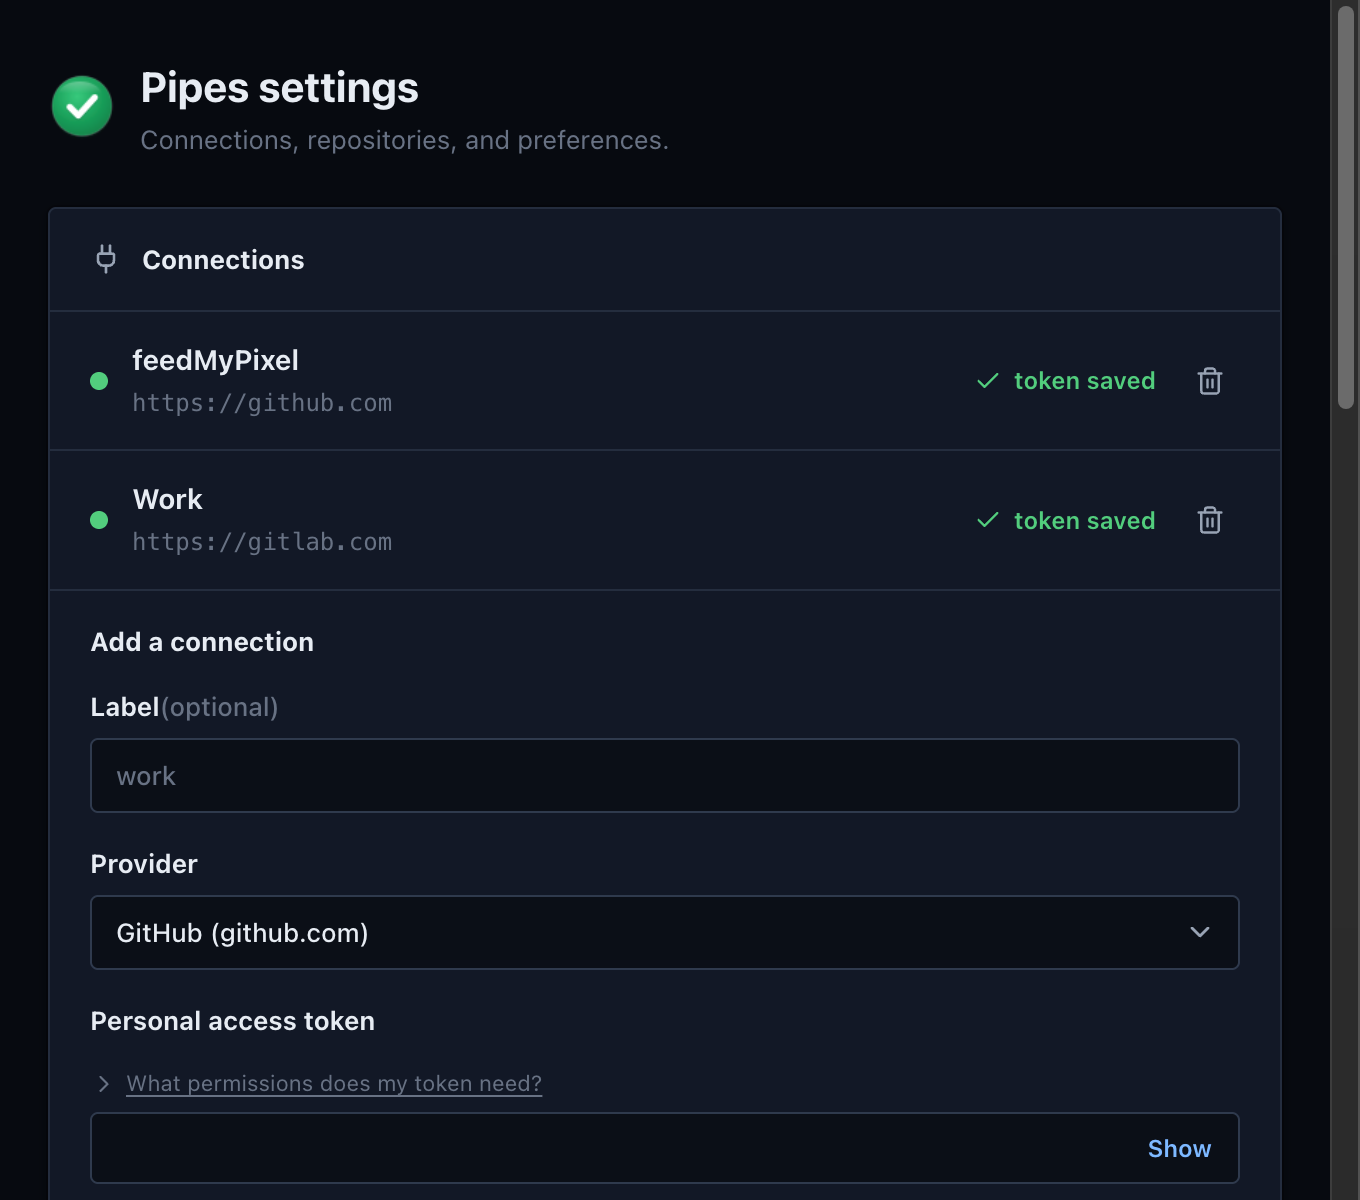
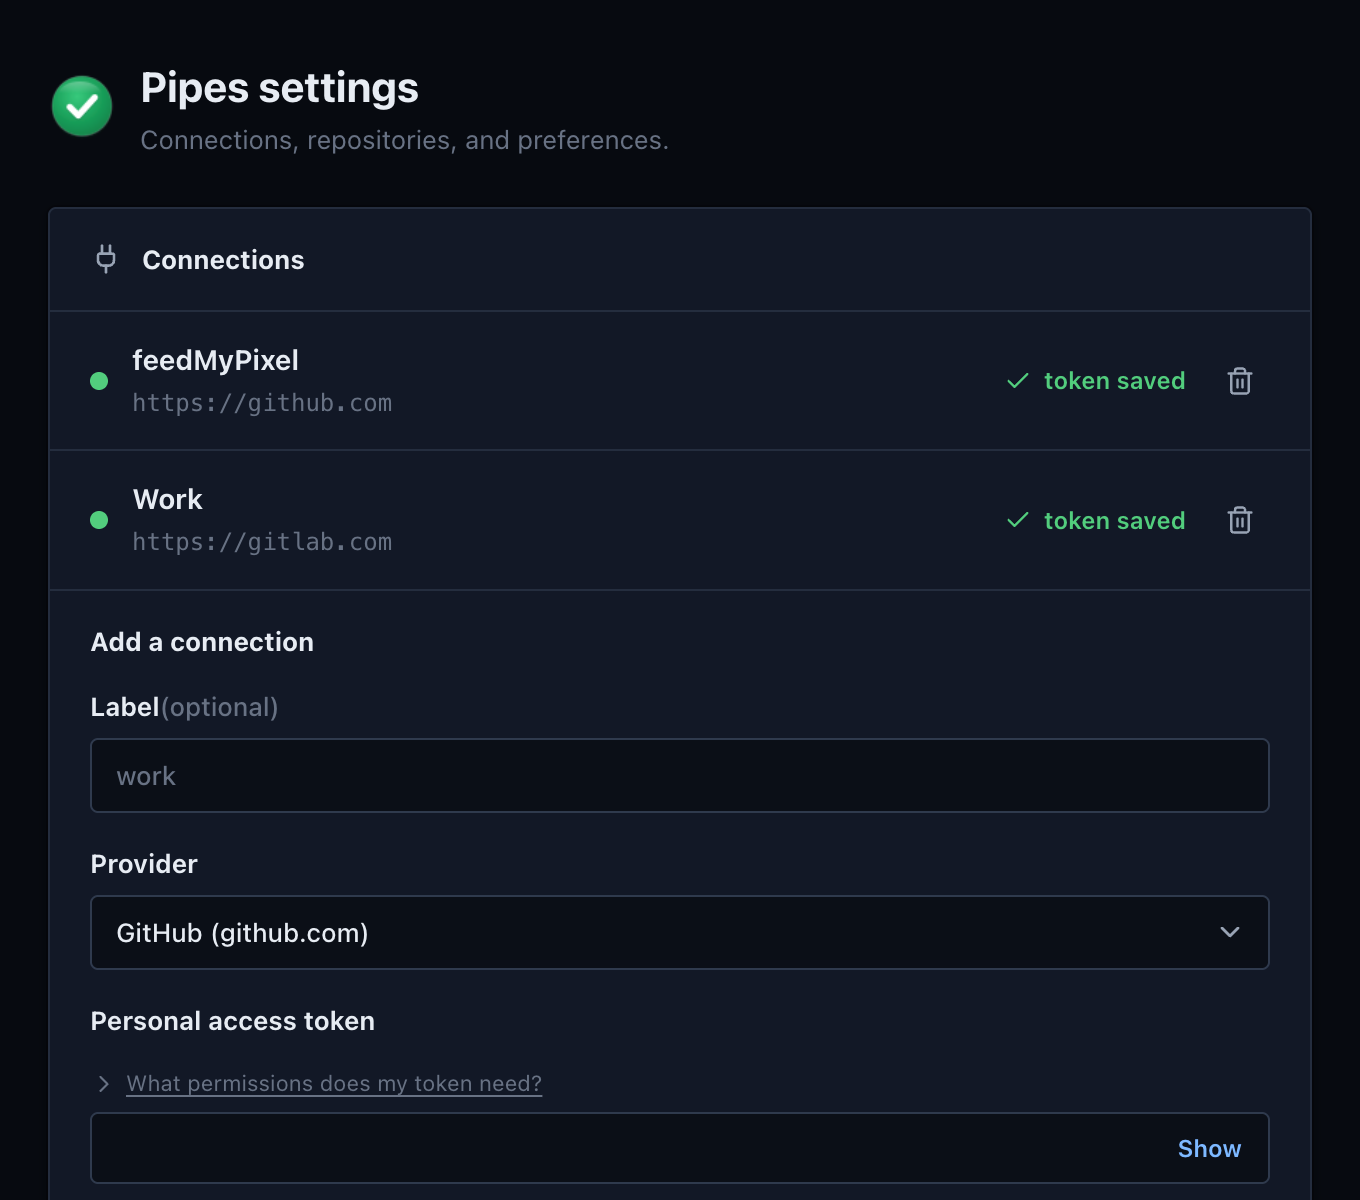
Use the scrollbar-free Pipes dark captures
The dark popup, side panel and options shots came from the design
bundle, captured before pipes 12db8fa hid the scrollbars. The script now
copies all eight shots from design/pipes-captures, pinned from pipes
store-screenshots/auto at 8af3f8e.

Claude-Session: https://claude.ai/code/session_01FSYyyQJwXdNeXTCTAAtt8m

diff --git a/scripts/resize-screens.py b/scripts/resize-screens.py
@@ -13,7 +13,7 @@ from PIL import Image
 
 RENDER_DIRECTORY = Path('design/status-v7/mocks-pinned/render')
 UPLOADS_DIRECTORY = RENDER_DIRECTORY / 'uploads/1206x2622'
-PIPES_SOURCE_DIRECTORY = RENDER_DIRECTORY / 'assets/pipes'
+PIPES_SOURCE_DIRECTORY = Path('design/pipes-captures')
 PIPES_PAGE_SOURCE_DIRECTORY = Path('design/pipes-v8/mocks-pinned/render/assets/pipes')
 
 FRAMES_DIRECTORY = Path('static/status/frames')

diff --git a/design/pipes-captures/README.md b/design/pipes-captures/README.md
@@ -1,0 +1,7 @@
+# Pipes captures
+
+The popup, side panel, options and failure notification shots in both themes, copied from the pipes
+repo's `store-screenshots/auto/` at commit `8af3f8e`. They have no scrollbars (pipes `12db8fa`), unlike
+the copies in the design bundles. `scripts/resize-screens.py` copies them into `static/pipes/`.
+
+To refresh: regenerate the captures in the pipes repo, copy them here and run the script.
